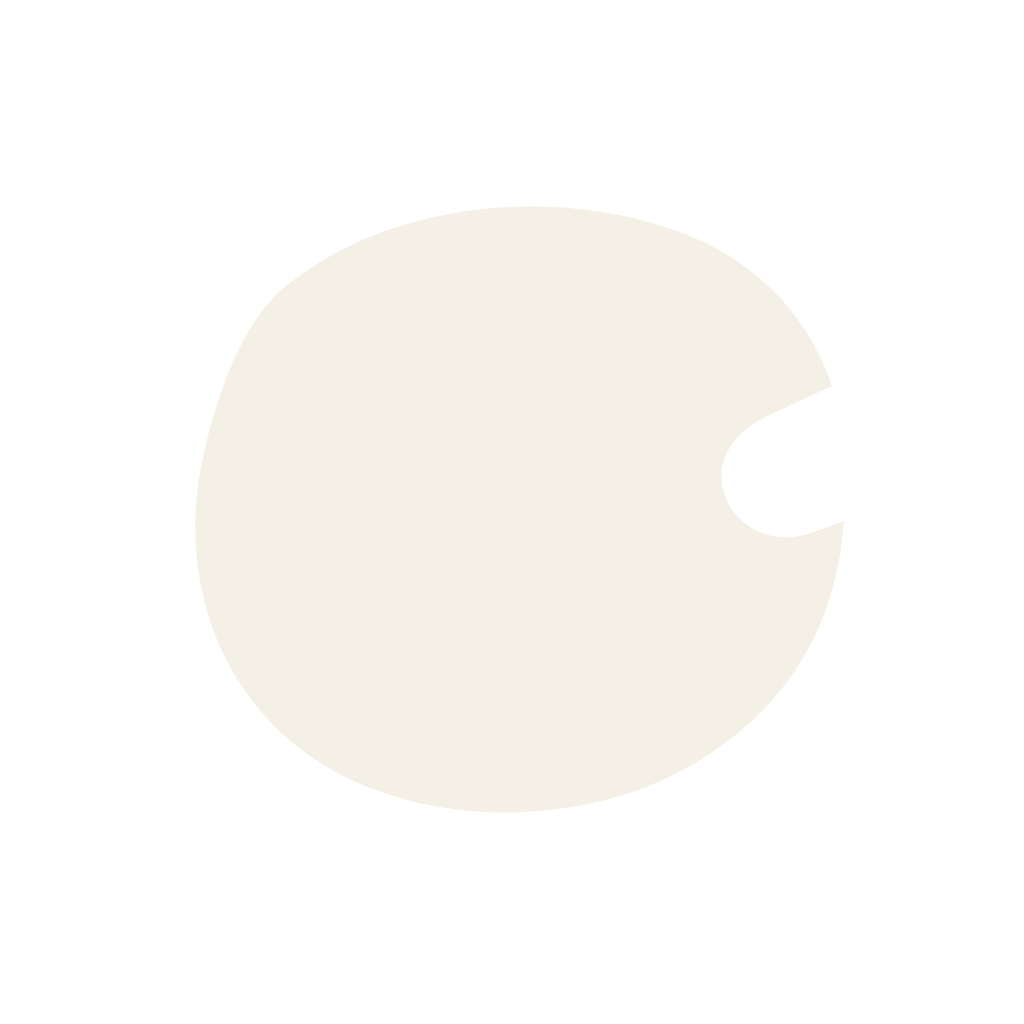
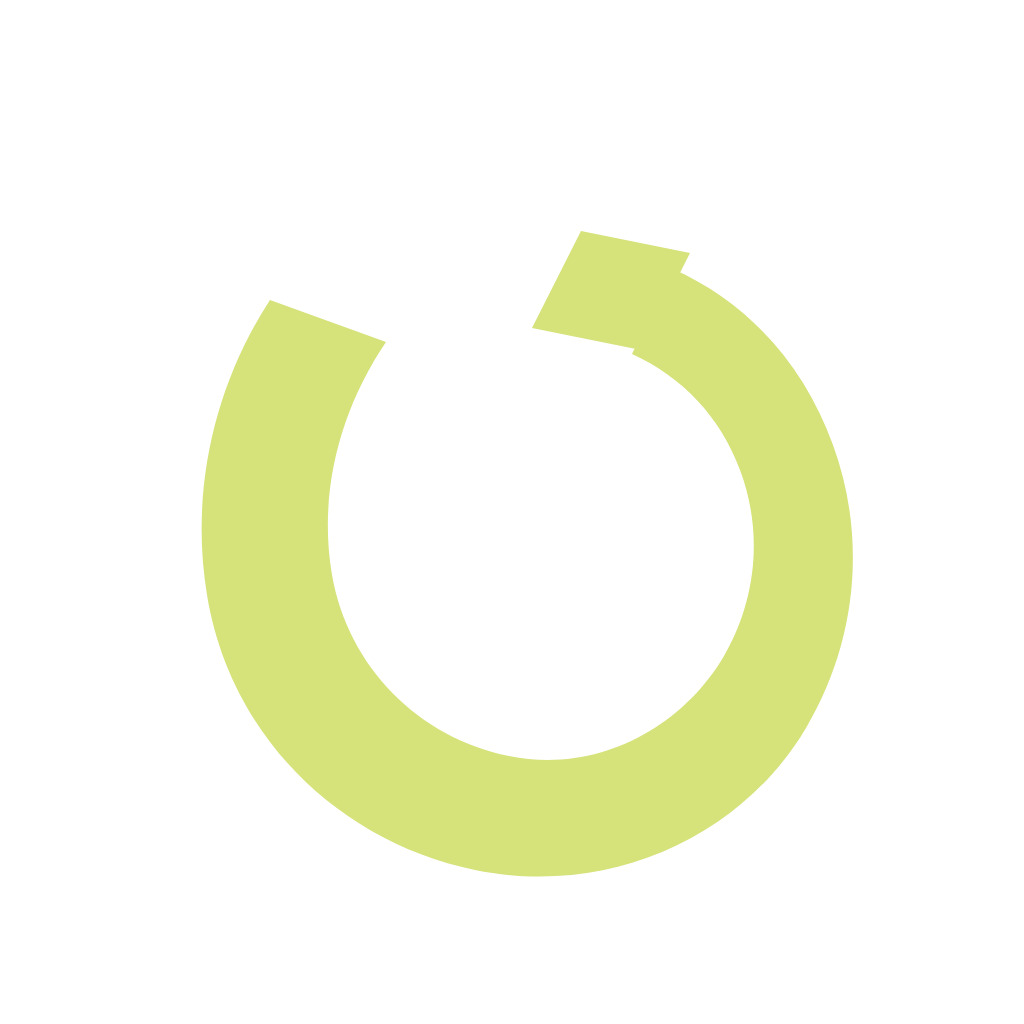
Use a simple gesture mark for Uvel branding

diff --git a/docs/uvel-logo-research.md b/docs/uvel-logo-research.md
@@ -1,48 +1,7 @@
-# Uvel logo research and recommendation
 
-## What the research changes
 
-The previous attempts failed because they jumped straight to visual output. They produced literal objects, generic geometric icons, or decorative concept art without first finding one strong idea that could own the brand.
+## Final direction implemented: the Uvel turn
 
-Adobe’s brand-identity guidance is unusually direct: a logo should be **simple, distinctive, and relevant**, and should be reduced to basic shapes and one or two colors so it can work from mobile screens to print. It also recommends studying competitors before choosing the visual territory. [1]
+The pebble direction has been replaced. The implemented mark is a single open U-shaped gesture with a rising terminal. It borrows the strategic lesson of Amazon’s app icon—one simple signifier that can become the brand—without copying Amazon’s smile-arrow geometry.
 
-Canva’s brand-identity guidance makes the same point in slightly different terms: the logo is the most recognizable part of the identity, so it needs to be simple, unique, and memorable. It also notes that the logo and color system have to work together as one recognizable image, not as unrelated decoration. [2]
-
-Pentagram’s Mastercard case study is the useful professional example. The designers did not add more detail to make the mark feel premium. They isolated the existing idea to its purest forms, tested the colors across real contexts, and built a system that worked on cards, retail signs, websites, and phones. Pentagram reports that 81% of consumers spontaneously recognized the simplified symbol without the wordmark in its research. [3]
-
-Apple’s identity guidelines show the operational side of the same principle: use the mark in a clean one-color treatment, protect clear space, avoid effects, and define a minimum size. The mark has to survive without presentation tricks. [4]
-
-Rob Janoff’s interview about Apple adds the strategic lesson that matters most here. He says the bite made the fruit identifiable at a glance, gave the audience a small “wink,” and kept the mark simple enough to remember. His advice was to avoid adding every possible meaning and instead communicate one singular idea. [5]
-
-Academic research also cautions against assuming that a literal logo is automatically better. A 2023 study found that figurative marks can improve recognition and associations, but their effect depends on how well the mark interacts with the brand name. A literal symbol that creates the wrong association can hurt recall. [6]
-
-## What this means for Uvel
-
-Uvel is an abstract name, so a fruit or object can give it a concrete memory hook. But the object cannot be random. It needs one visual behavior that makes it ownable. A plain fruit would be forgettable. A bitten apple-like fruit would invite comparison with Apple. The opportunity is a **simple organic pebble/seed form with a Uvel-specific cut**, not an Apple-style bite.
-
-The cut should be a designed interruption rather than a round bite copied from another brand. It could be a shallow, off-center notch or a crisp slice that creates a recognizable silhouette. The mark should still read as one solid shape when filled black. The “wink” is the unexpected cut, not a stem, leaf, face, sparkle, or extra symbol.
-
-## Recommended direction: the Uvel notch
-
-**Brand sentence:** Uvel is the place where a personal find becomes part of your style.
-
-**Visual idea:** a single rounded pebble/seed mark with one asymmetric notch. The pebble suggests something selected and kept. The notch makes it ownable and creates the memory hook. It is abstract enough to become a brand, but organic enough to feel human rather than corporate.
-
-**Construction:** one filled organic silhouette; one cut only; no interior lines; no leaf; no stem; no shadow; no outline; no wordmark inside the icon. The notch should be asymmetric and positioned so the silhouette is recognizable even in one color.
-
-**Color:** use Uvel’s dark olive as the field, `#2A320E`. Use a single warm light mark, preferably `#F4F0E6`, with the lime `#D6E27A` reserved for secondary applications rather than placed inside the icon. This keeps the app icon premium and prevents the mark from becoming a multi-color illustration.
-
-**Tests before integration:** black mark on white, white mark on black, the icon at 1024, 256, 64, 32, and 16 px, and next to neutral marketplace icons. Reject it if the notch disappears, if it reads as a fruit with a stem, or if it resembles Apple’s bite too closely.
-
-## What not to do next
-
-Do not generate another batch of unrelated AI concepts. Do not add fashion objects, shopping bags, hangers, tags, eyes, stars, arrows, loops, or decorative accents. Do not use a gradient to compensate for a weak silhouette. Do not integrate a preview into the repository until the one-color silhouette passes the small-size test.
-
-## Sources
-
-[1]: https://certifiedprofessional.adobe.com/blog/the-complete-guide-to-brand-identity-design "Adobe Certified Professional, The Complete Guide to Brand Identity Design"
-[2]: https://www.canva.com/resources/brand-identity/ "Canva, What is brand identity?"
-[3]: https://www.pentagram.com/work/mastercard "Pentagram, Mastercard brand identity case study"
-[4]: https://www.apple.com/legal/sales-support/certification/docs/logo_guidelines.pdf "Apple Identity Guidelines"
-[5]: https://www.forbes.com/sites/willburns/2018/03/26/rob-janoff-and-the-fascinating-true-story-behind-his-original-apple-logo-design/ "Forbes, Rob Janoff and the story behind the Apple logo"
-[6]: https://www.sciencedirect.com/science/article/pii/S0148296323003028 "Journal of Business Research, The effect of brand names and logos' figurativeness on cognitive responses"
+The gesture is deliberately vertical and open rather than a horizontal smile. It can read as a stylized U, a turn, or a path through a selection. The lime mark uses `#D6E27A` on Uvel olive `#2A320E`, with no text, cart, tag, hanger, fruit, or decorative effects.
